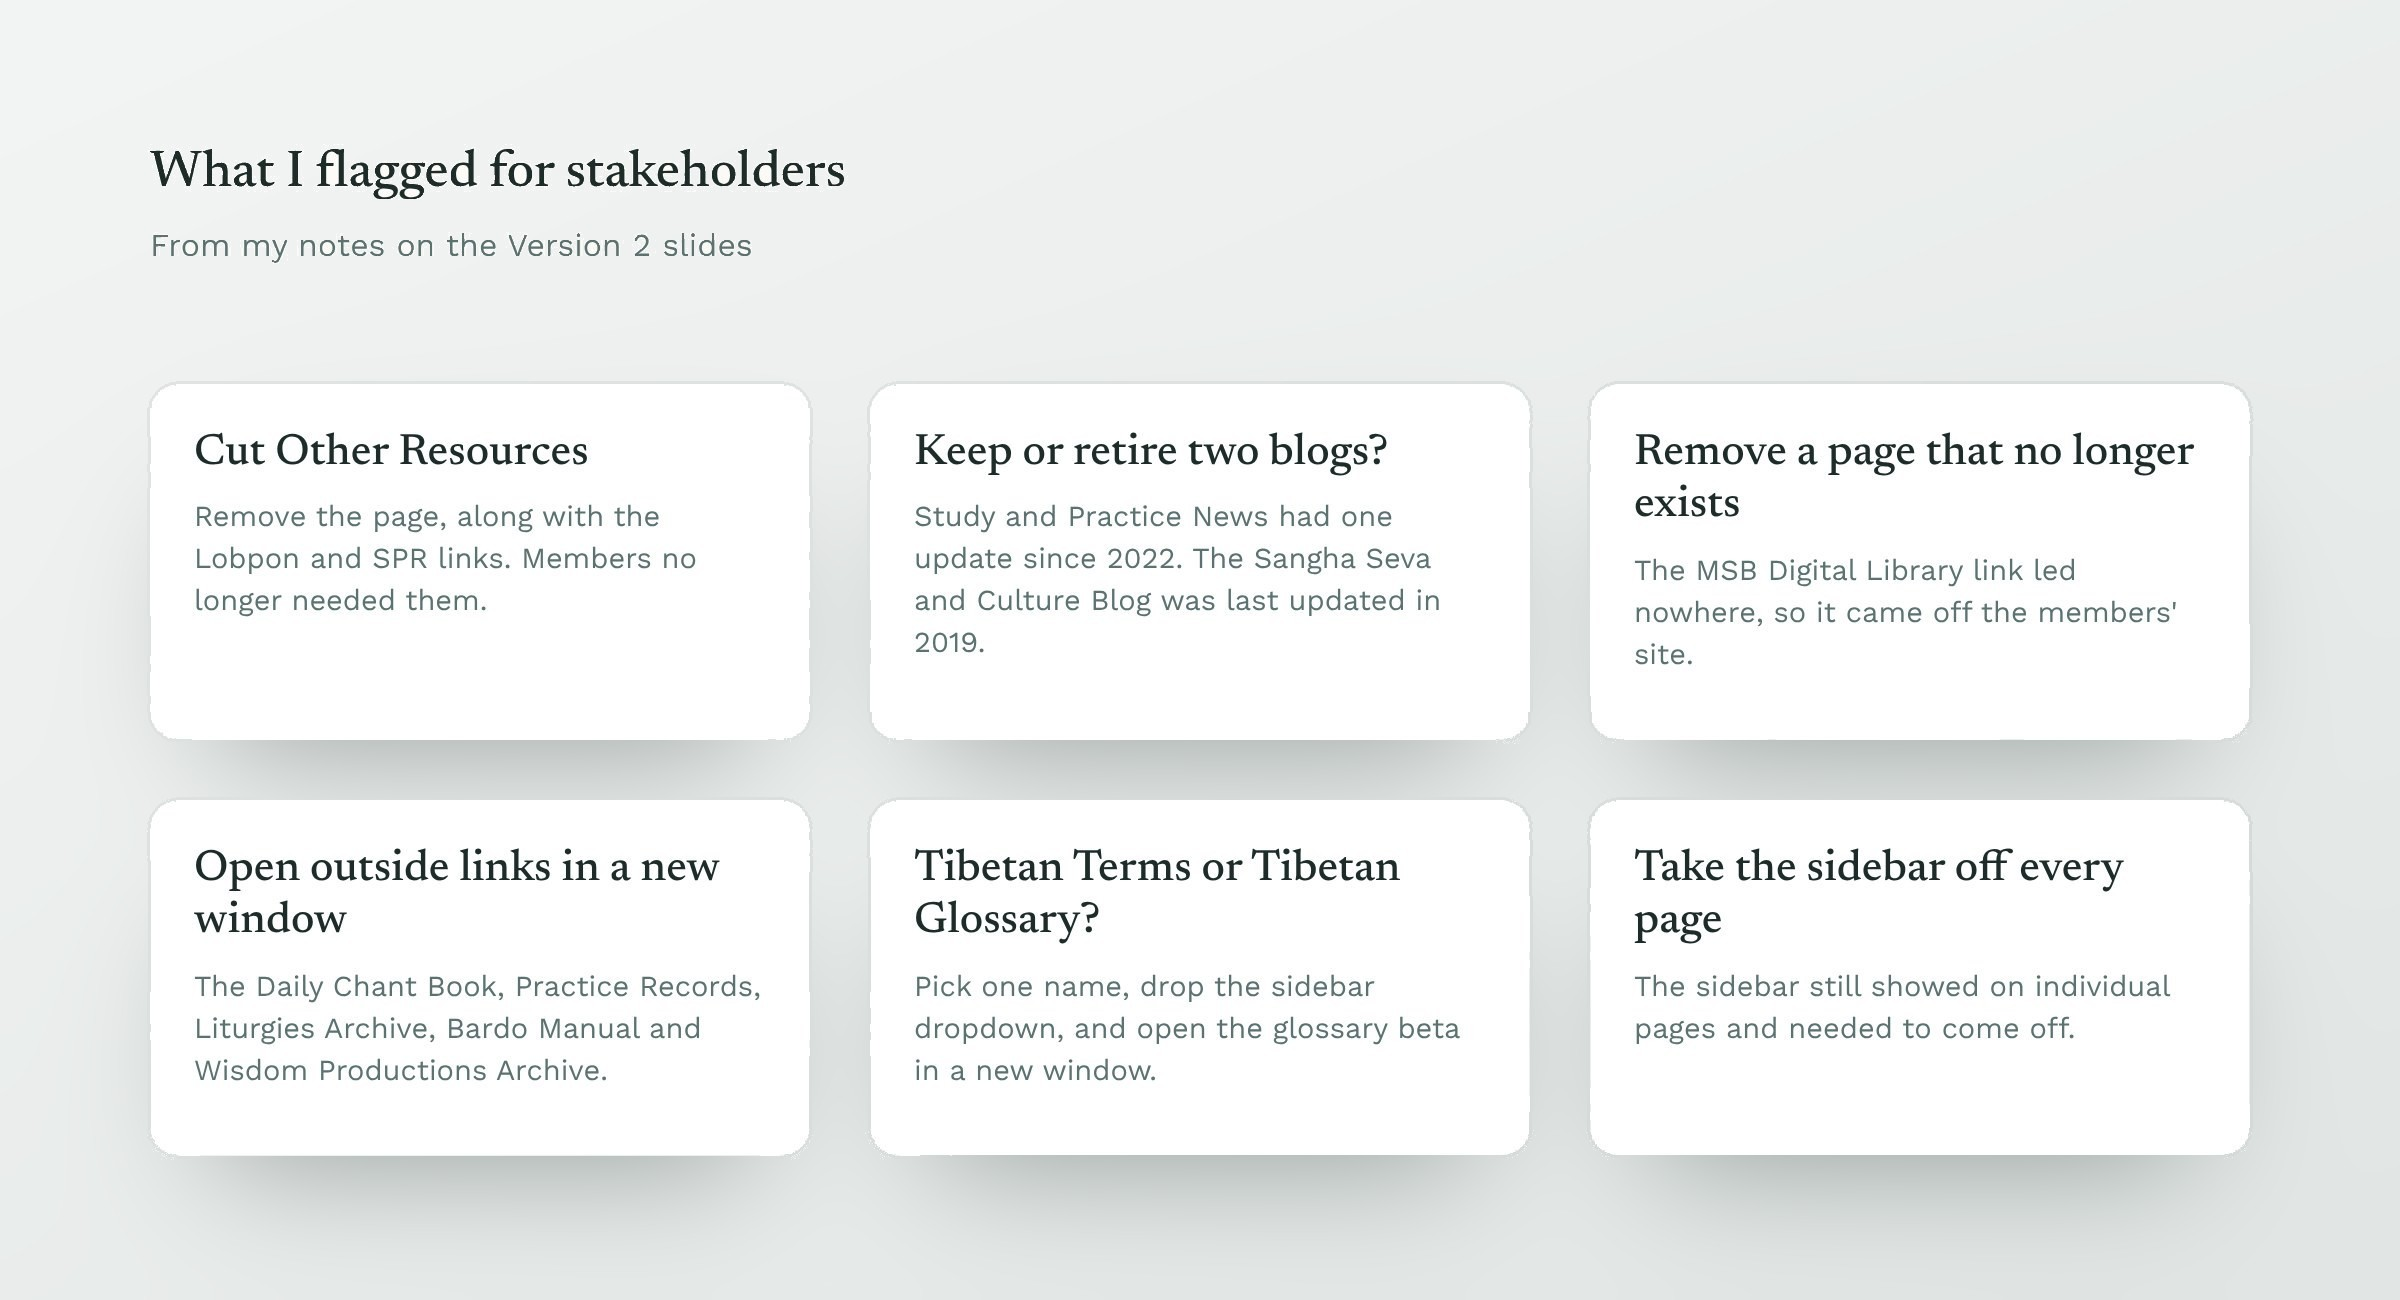
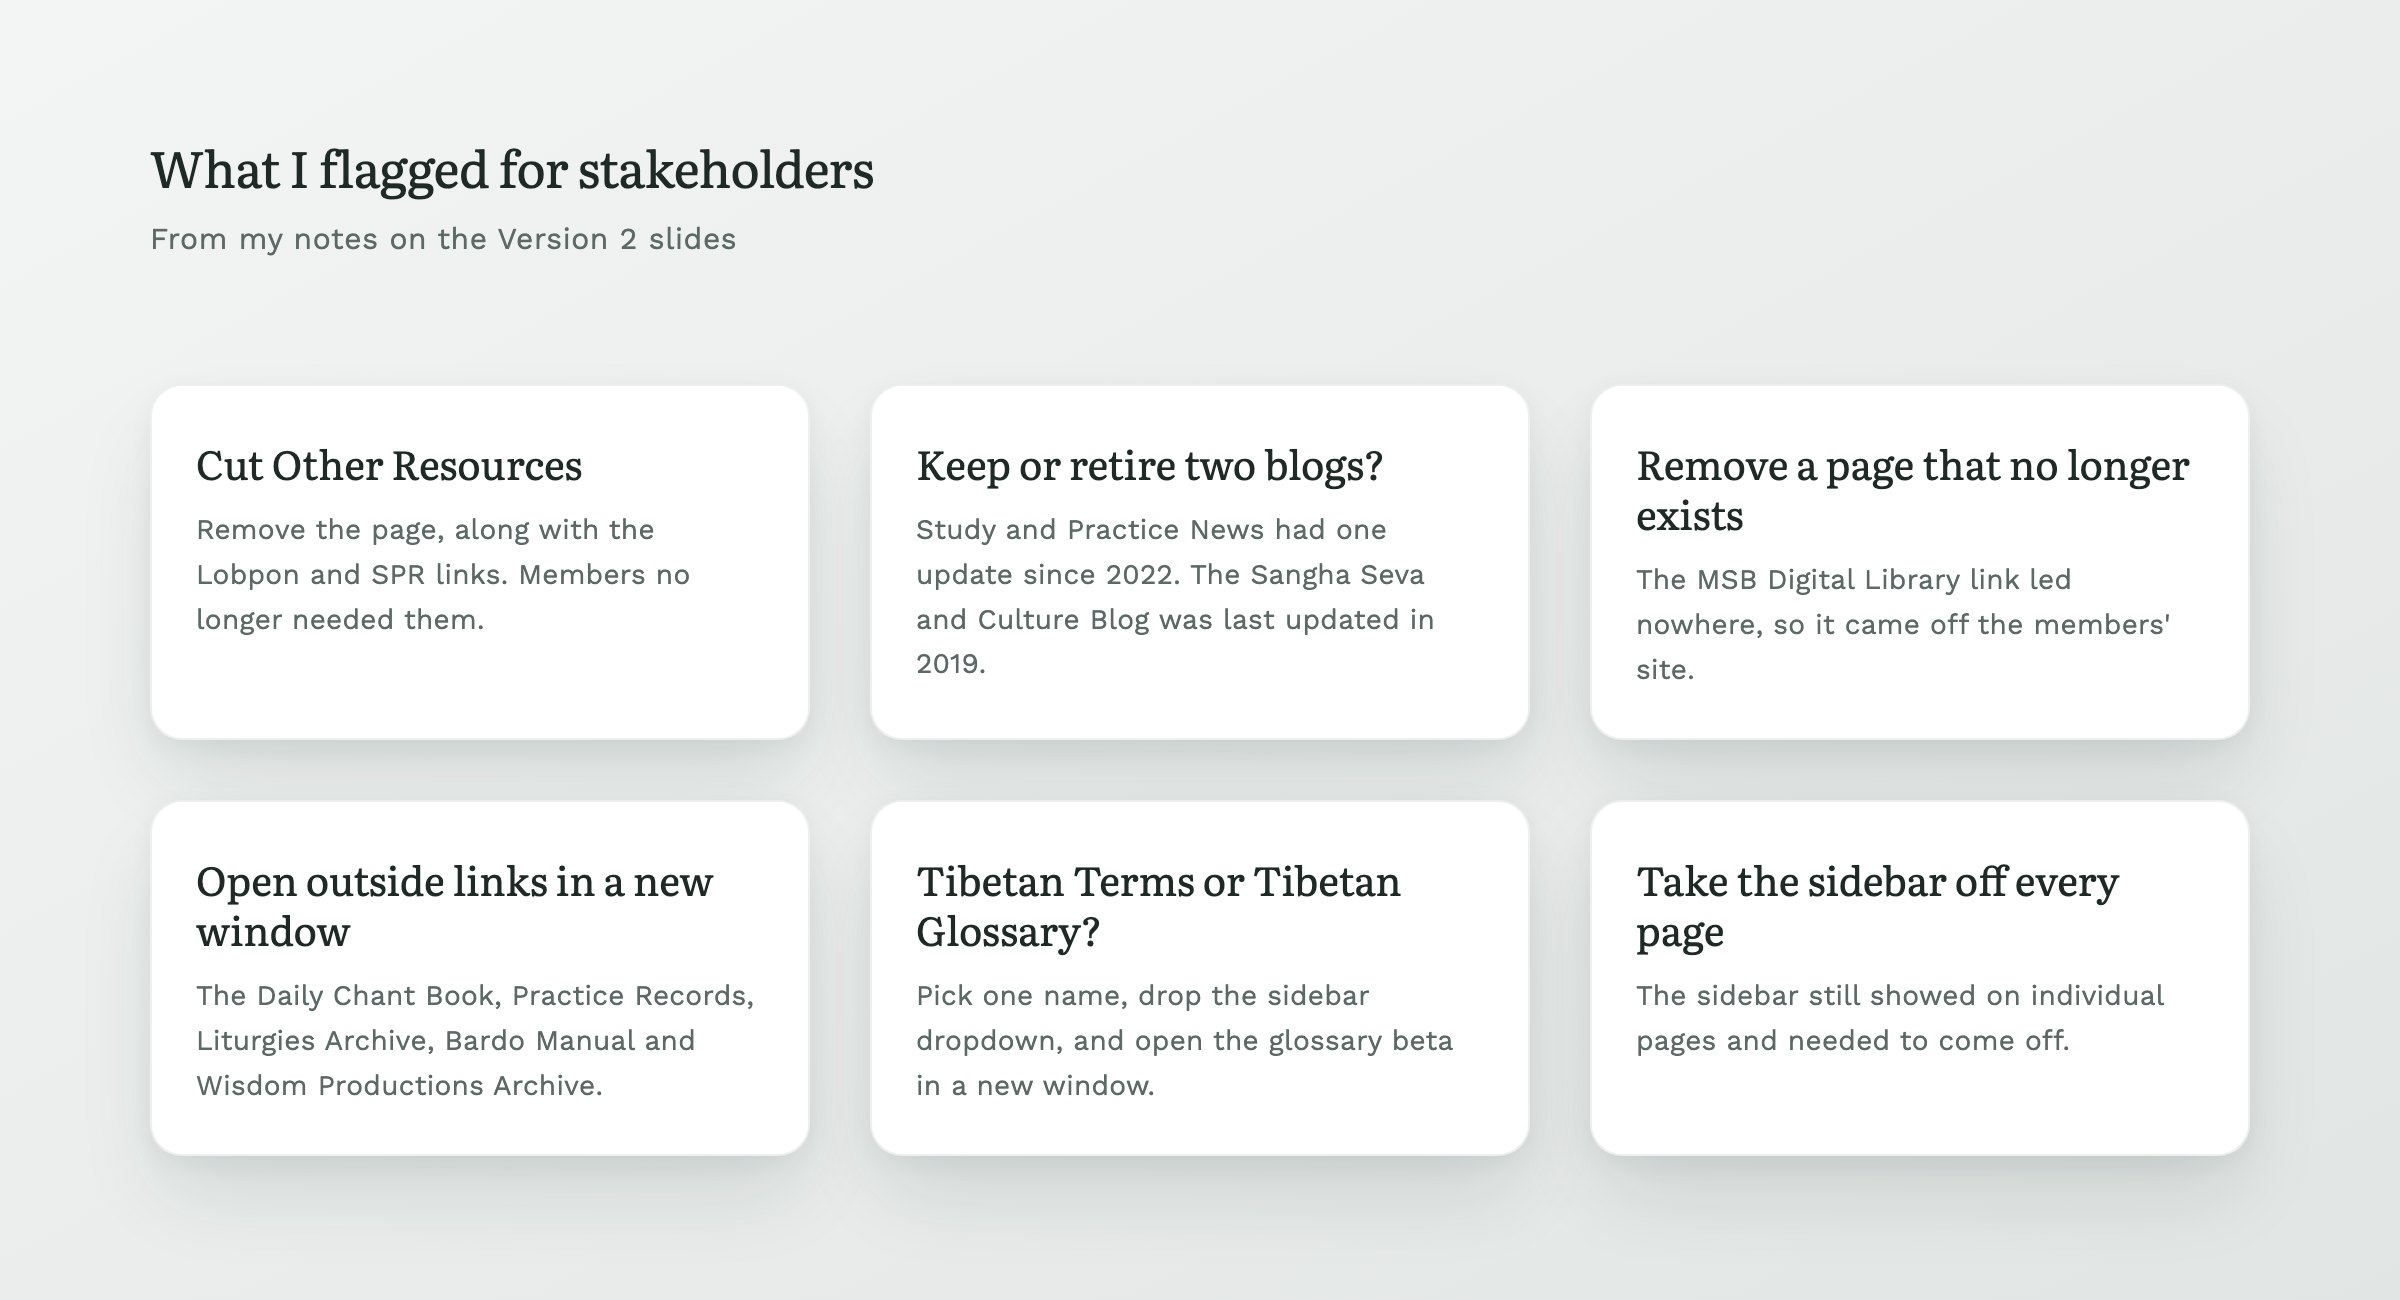
Rebuild MSB figures with clean shadows, reorder images, add section intros

diff --git a/case-studies/mangala.html b/case-studies/mangala.html
@@ -241,9 +241,27 @@
   </div>
 </div>
 
-<div class="img-full reveal">
-  <img src="../assets/images/cs-msb-hero.jpg" alt="Redesigned MSB members' portal homepage with the Practice Resources mega menu open">
-  <p class="img-caption">Fig 01. The new members' portal homepage, with the Practice Resources mega menu open</p>
+<!-- Fig 01: final homepage, scrollable -->
+<div class="img-full reveal" >
+  <div class="device-browser" style="max-width:689px; margin:0 auto;">
+    <div class="device-bar">
+      <div class="device-dots">
+        <span class="device-dot"></span>
+        <span class="device-dot"></span>
+        <span class="device-dot"></span>
+      </div>
+      <div class="device-url">members.mangalashribhuti.org</div>
+    </div>
+    <div class="device-scroll-wrap">
+      <div class="device-scroll-track">
+        <img src="../assets/images/cs-msb-homepage-v2.jpg" alt="MSB members portal homepage after redesign">
+      </div>
+    </div>
+    <div class="scroll-hint">&#8597;&nbsp;&nbsp;Scroll to explore</div>
+  </div>
+</div>
+<div class="img-contained reveal" style="margin-top:-16px">
+  <p class="img-caption">Fig 01. The members' portal homepage, final design. Scroll to see the full page.</p>
 </div>
 
 <!-- 01 THE CHALLENGE -->
@@ -254,7 +272,7 @@
 </div>
 
 <div class="img-full reveal">
-  <img src="../assets/images/cs-msb-old-anatomy.jpg" alt="The original MSB members' homepage at full length, with the six sidebar sections, five resource buttons and Shabten update highlighted">
+  <img src="../assets/images/cs-msb-old-anatomy.jpg?v=2" alt="The original MSB members' homepage at full length, with the six sidebar sections, five resource buttons and Shabten update highlighted">
   <p class="img-caption">Fig 02. The original homepage at full length. Apart from Quick Access and the announcements, everything sat in the sidebar.</p>
 </div>
 
@@ -345,13 +363,18 @@
   </div>
 </div>
 
+<div class="case-section reveal" style="padding-bottom: 24px">
+  <h3 class="t-subtitle">Before and after</h3>
+  <p class="t-body">On both phone and desktop, the resource cards replaced the sidebar as the first thing members see. The full menu sits one tap or click away.</p>
+</div>
+
 <div class="img-wide reveal">
-  <img src="../assets/images/cs-msb-mobile-compare.jpg" alt="MSB mobile homepage before and after the redesign">
+  <img src="../assets/images/cs-msb-mobile-compare.jpg?v=2" alt="MSB mobile homepage before and after the redesign">
   <p class="img-caption">Fig 06. Mobile homepage before and after</p>
 </div>
 
 <div class="img-full reveal">
-  <img src="../assets/images/cs-msb-home-compare.jpg" alt="MSB homepage before and after the redesign">
+  <img src="../assets/images/cs-msb-home-compare.jpg?v=2" alt="MSB homepage before and after the redesign">
   <p class="img-caption">Fig 07. Homepage before and after: the sidebar replaced with resource cards and a mega menu</p>
 </div>
 
@@ -382,42 +405,39 @@
   </div>
 </div>
 
-<div class="img-full reveal" style="margin-top:48px">
-  <img src="../assets/images/cs-msb-v2-slides.jpg" alt="Three Version 2 stakeholder slides: the homepage, and the Practice Resources and Community mega menus">
-  <p class="img-caption">Fig 08. Three of the Version 2 slides I presented to stakeholders: the homepage, Practice Resources and Community</p>
+<div class="case-section reveal" style="padding-bottom: 24px">
+  <h3 class="t-subtitle">The stakeholder review</h3>
+  <p class="t-body">I walked the stakeholders through Version 2 one slide at a time. Each slide showed the homepage or one mega menu category with its links in place.</p>
 </div>
 
 <div class="img-full reveal">
-  <img src="../assets/images/cs-msb-content-audit.jpg" alt="Six content decisions flagged for stakeholders, such as cutting unused pages and retiring outdated blogs">
+  <img src="../assets/images/cs-msb-v2-slides.jpg?v=2" alt="Three Version 2 stakeholder slides: the homepage, and the Practice Resources and Community mega menus">
+  <p class="img-caption">Fig 08. Three of the Version 2 slides I presented to stakeholders: the homepage, Practice Resources and Community</p>
+</div>
+
+<div class="case-section reveal" style="padding-bottom: 24px">
+  <h3 class="t-subtitle">Content decisions</h3>
+  <p class="t-body">The review also brought up content that no longer served members. I listed each question for the stakeholders, then mapped where every part of the old homepage would go.</p>
+</div>
+
+<div class="img-full reveal">
+  <img src="../assets/images/cs-msb-content-audit.jpg?v=2" alt="Six content decisions flagged for stakeholders, such as cutting unused pages and retiring outdated blogs">
   <p class="img-caption">Fig 09. Content fixes and open questions I raised with stakeholders during the Version 2 review</p>
 </div>
 
 <div class="img-full reveal">
-  <img src="../assets/images/cs-msb-content-map-v2.jpg" alt="Diagram showing where everything on the old homepage went: the most-used resources to the new homepage, the rest into seven mega menu categories, and a few pages cut">
+  <img src="../assets/images/cs-msb-content-map-v2.jpg?v=2" alt="Diagram showing where everything on the old homepage went: the most-used resources to the new homepage, the rest into seven mega menu categories, and a few pages cut">
   <p class="img-caption">Fig 10. Where everything on the old homepage went. The most-used resources moved up to the homepage, the rest went into the mega menu, and a few pages were cut.</p>
 </div>
 
-<!-- Fig 11 — final homepage, scrollable -->
-<div class="img-full reveal" style="margin-top:48px">
-  <div class="device-browser" style="max-width:689px; margin:0 auto;">
-    <div class="device-bar">
-      <div class="device-dots">
-        <span class="device-dot"></span>
-        <span class="device-dot"></span>
-        <span class="device-dot"></span>
-      </div>
-      <div class="device-url">members.mangalashribhuti.org</div>
-    </div>
-    <div class="device-scroll-wrap">
-      <div class="device-scroll-track">
-        <img src="../assets/images/cs-msb-homepage-v2.jpg" alt="MSB members portal homepage after redesign">
-      </div>
-    </div>
-    <div class="scroll-hint">&#8597;&nbsp;&nbsp;Scroll to explore</div>
-  </div>
+<div class="case-section reveal" style="padding-bottom: 24px">
+  <h3 class="t-subtitle">The final mega menu</h3>
+  <p class="t-body">Every page from the old sidebar now sits in one of seven categories. Here the Practice Resources menu is open over the new homepage.</p>
 </div>
-<div class="img-contained reveal" style="margin-top:-16px">
-  <p class="img-caption">Fig 11. MSB members' portal homepage, final design. Scroll to see the full page.</p>
+
+<div class="img-full reveal">
+  <img src="../assets/images/cs-msb-hero.jpg?v=2" alt="Redesigned MSB members' portal homepage with the Practice Resources mega menu open">
+  <p class="img-caption">Fig 11. The new homepage with the Practice Resources mega menu open</p>
 </div>
 
 <div class="divider"></div>
